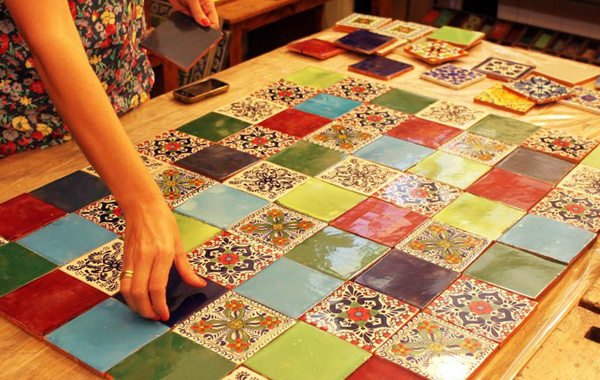
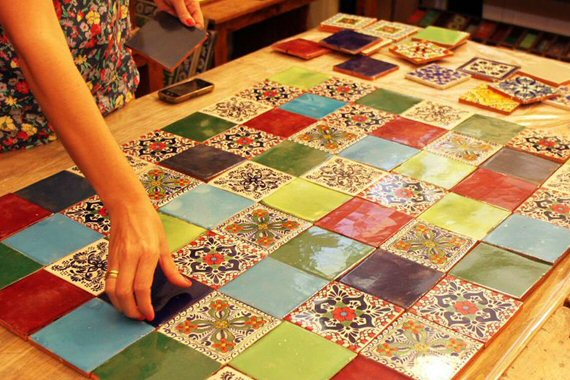
Memory game, improve images and css

diff --git a/www/MemoryGame/style.css b/www/MemoryGame/style.css
@@ -3,7 +3,7 @@ html, body {
     text-align: center;
     margin: 0;
     padding: 0;
-    background-image: url(media/Background\(2\).jpg);
+    background-image: url(bg.jpg);
 }
 .wrapper {
     padding: 2%;
@@ -14,34 +14,33 @@ html, body {
     text-align: center;
 }
 .flipContainer {
-    height: 21%;
-    width: 15%;
-    perspective: 1000px;
+    height: 9.3vw;
+    width: 14vw;
+    margin-right: 1vw;
+    margin-bottom: 1vw;
     display: inline-block;
-    overflow: hidden;
     position: relative;
-    border-radius: 25%;
-    border: 2px solid white;
 }
 .flipContainer.flip .tile{
 	transform: rotateY(180deg);
-    float: left;
+	float: left;
 }
 .flipContainer img {
-    max-height: 100%;
-    max-width: 100%;
+    width: 100%;
 }
 .face, .back, .tile {
 	width: 100%;
 	height: 100%;
-    position: absolute;
+	position: absolute;
+	box-sizing: border-box;
 }
 
 /* flip speed goes here */
 .tile {
 	transition: 0.6s;
 	transform-style: preserve-3d;
-    float: left;
+	float: left;
+	box-shadow: 0 0 0.2vw 0.2vw rgba(0, 0, 0, 0.45);
 }
 
 /* hide back of pane during swap */
@@ -66,5 +65,5 @@ h1 {
     font-family: "Hebrew-Bold";
     font-size: 4vw;
     color: #fff;
-    margin: 2vw 0 1vw;
+    margin: 2vw 0 2.5vw;
 }

diff --git a/www/Trivia/style.css b/www/Trivia/style.css
@@ -2,7 +2,7 @@
 @font-face{font-family:"Hebrew-Regular";src:url(Assistant-Regular.ttf)}
 @font-face{font-family:"Hebrew-Bold";src:url(Assistant-ExtraBold.ttf)}
 *{margin:0;padding:0}
-body{direction:rtl;font-family: "Hebrew-Regular";background: url(Background.png) no-repeat;background-size: cover;}
+body{direction:rtl;font-family: "Hebrew-Regular";background: url(bg.png) no-repeat;background-size: cover;}
 .wrapper{text-align:center;}
 .question{font-family: "Hebrew-Bold";font-size: 4vw;color: #fff;margin: 2vw 0 1vw;}
 .answers{width:80%;display:inline-block;margin-top: 2vw;}

diff --git a/www/MemoryGame/memory.js b/www/MemoryGame/memory.js
@@ -14,7 +14,10 @@ var Memory = function (){
                         <img src='"+this.tiles[i].img+"'>\
                     </div>\
                 </div>\
-            </div>");        
+            </div>");
+            if ((i + 1) % 6 == 0) {
+                $(".wrapper").append("<br />");
+            }        
             a = this;
             $('.flipContainer').click(function (obj) {
                 a.clicked($(this));

diff --git a/www/MemoryGame/index.html b/www/MemoryGame/index.html
@@ -1,6 +1,8 @@
 <!DOCTYPE html>
 <html>
     <head>
+    <meta charset="utf-8" />
+    <meta name="viewport" content="width=device-width, initial-scale=1">
     <link rel="stylesheet" href="style.css" />
     <script type="text/javascript" src="jquery.min.js"></script>
     <script type="text/javascript" src="memory.js"></script>

diff --git a/www/Hangman/index.html b/www/Hangman/index.html
@@ -3,6 +3,8 @@
 <html>
 	<head>
 		<title>Hangman</title>
+        <meta charset="utf-8" />
+        <meta name="viewport" content="width=device-width, initial-scale=1">
 		<script src="jquery.min.js"></script>
         <script src="Hangman.js"></script>
 		<script src="client.js"></script>

diff --git a/www/Trivia/TriviaQuiz.js b/www/Trivia/TriviaQuiz.js
@@ -1,5 +1,6 @@
 var FILENAME = 'TriviaHighScores.txt';
 document.addEventListener('deviceready', function () {
+    navigator.splashscreen.hide();
     window.requestFileSystem(LocalFileSystem.PERSISTENT, 0, gotFS, null);
 }, false);
 

diff --git a/www/index.html b/www/index.html
@@ -2,6 +2,6 @@
     <body>
 	<a href="Trivia/index.html">Trivia</a><br />
 	<a href="Hangman/index.html">Hangman</a><br />
-	<a href="Matching">Matching</a>
+	<a href="MemoryGame/index.html">Memory Game</a>
 	</body>
 </html>
